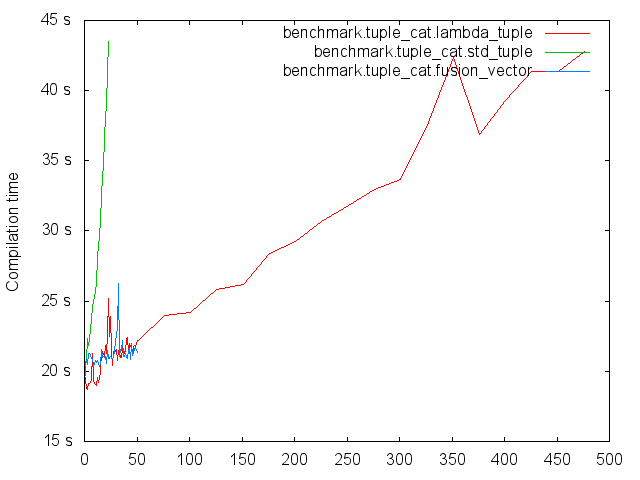
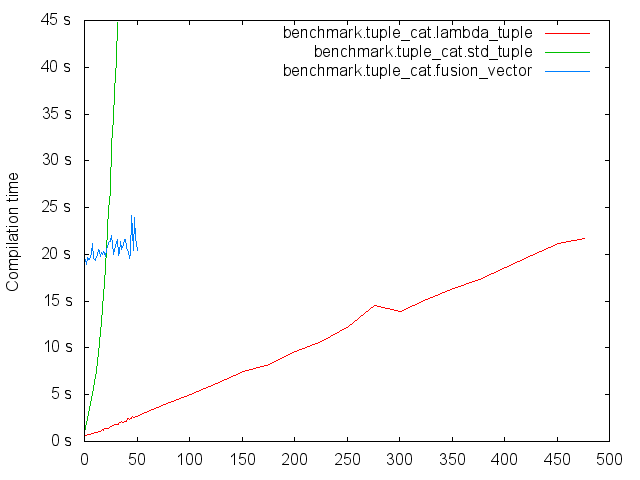
Generate benchmarks

diff --git a/code/benchmark/elem/single.cpp b/code/benchmark/elem/single.cpp
@@ -1,0 +1,31 @@
+
+struct yes { };
+struct no { };
+
+template <typename x>
+struct no_decay { using type = x; };
+
+template <typename ...keys>
+struct map {
+    template <typename fail = void>
+    static no has_key(...);
+};
+
+template <typename key, typename ...keys>
+struct map<key, keys...> : map<keys...> {
+    using map<keys...>::has_key;
+    static yes has_key(no_decay<key>*);
+};
+
+template <typename T, typename ...Ts>
+using elem = decltype(
+    map<Ts...>::has_key((no_decay<T>*)nullptr)
+);
+
+
+template <int> struct x;
+<% xs = (1..n+1).map { |i| "x<#{i}>" }.join(', ') %>
+
+using r = elem<x<0>, <%= xs %>>;
+
+int main() { }

diff --git a/code/benchmark/elem/any.cpp b/code/benchmark/elem/any.cpp
@@ -1,0 +1,27 @@
+template <typename T, typename U>
+struct is_same { static constexpr bool value = false; };
+
+template <typename T>
+struct is_same<T, T> { static constexpr bool value = true; };
+
+
+template <bool ...b>
+struct any {
+    static constexpr bool value = !is_same<
+        any,
+        any<(b, false)...>
+    >::value;
+};
+
+template <typename key, typename ...keys>
+constexpr bool elem = any<
+    is_same<key, keys>::value...
+>::value;
+
+
+template <int> struct x;
+<% xs = (1..n+1).map { |i| "x<#{i}>" }.join(', ') %>
+
+constexpr bool r = elem<x<0>, <%= xs %>>;
+
+int main() { }

diff --git a/code/benchmark/elem/multi.cpp b/code/benchmark/elem/multi.cpp
@@ -1,0 +1,27 @@
+
+struct yes { };
+struct no { };
+
+template <typename x>
+struct no_decay { using type = x; };
+
+template <typename ...xs>
+struct inherit : xs... { };
+
+
+template <typename key>
+static no lookup(...);
+
+template <typename key>
+static yes lookup(no_decay<key>*);
+
+template <typename key, typename ...keys>
+using elem = decltype(::lookup<key>((inherit<no_decay<keys>...>*)nullptr));
+
+
+template <int> struct x;
+<% xs = (1..n+1).map { |i| "x<#{i}>" }.join(', ') %>
+
+using r = elem<x<0>, <%= xs %>>;
+
+int main() { }

diff --git a/code/benchmark/elem/naive.cpp b/code/benchmark/elem/naive.cpp
@@ -1,0 +1,22 @@
+template <typename T, typename ...Ts>
+struct elem {
+    static constexpr bool value = false;
+};
+
+template <typename T, typename ...Us>
+struct elem<T, T, Us...> {
+    static constexpr bool value = true;
+};
+
+template <typename T, typename U, typename ...Us>
+struct elem<T, U, Us...> {
+    static constexpr bool value = elem<T, Us...>::value;
+};
+
+template <int> struct x;
+<% xs = (1..n+1).map { |i| "x<#{i}>" }.join(', ') %>
+
+
+int main() {
+    bool r = elem<x<0>, <%= xs %>>::value;
+}
